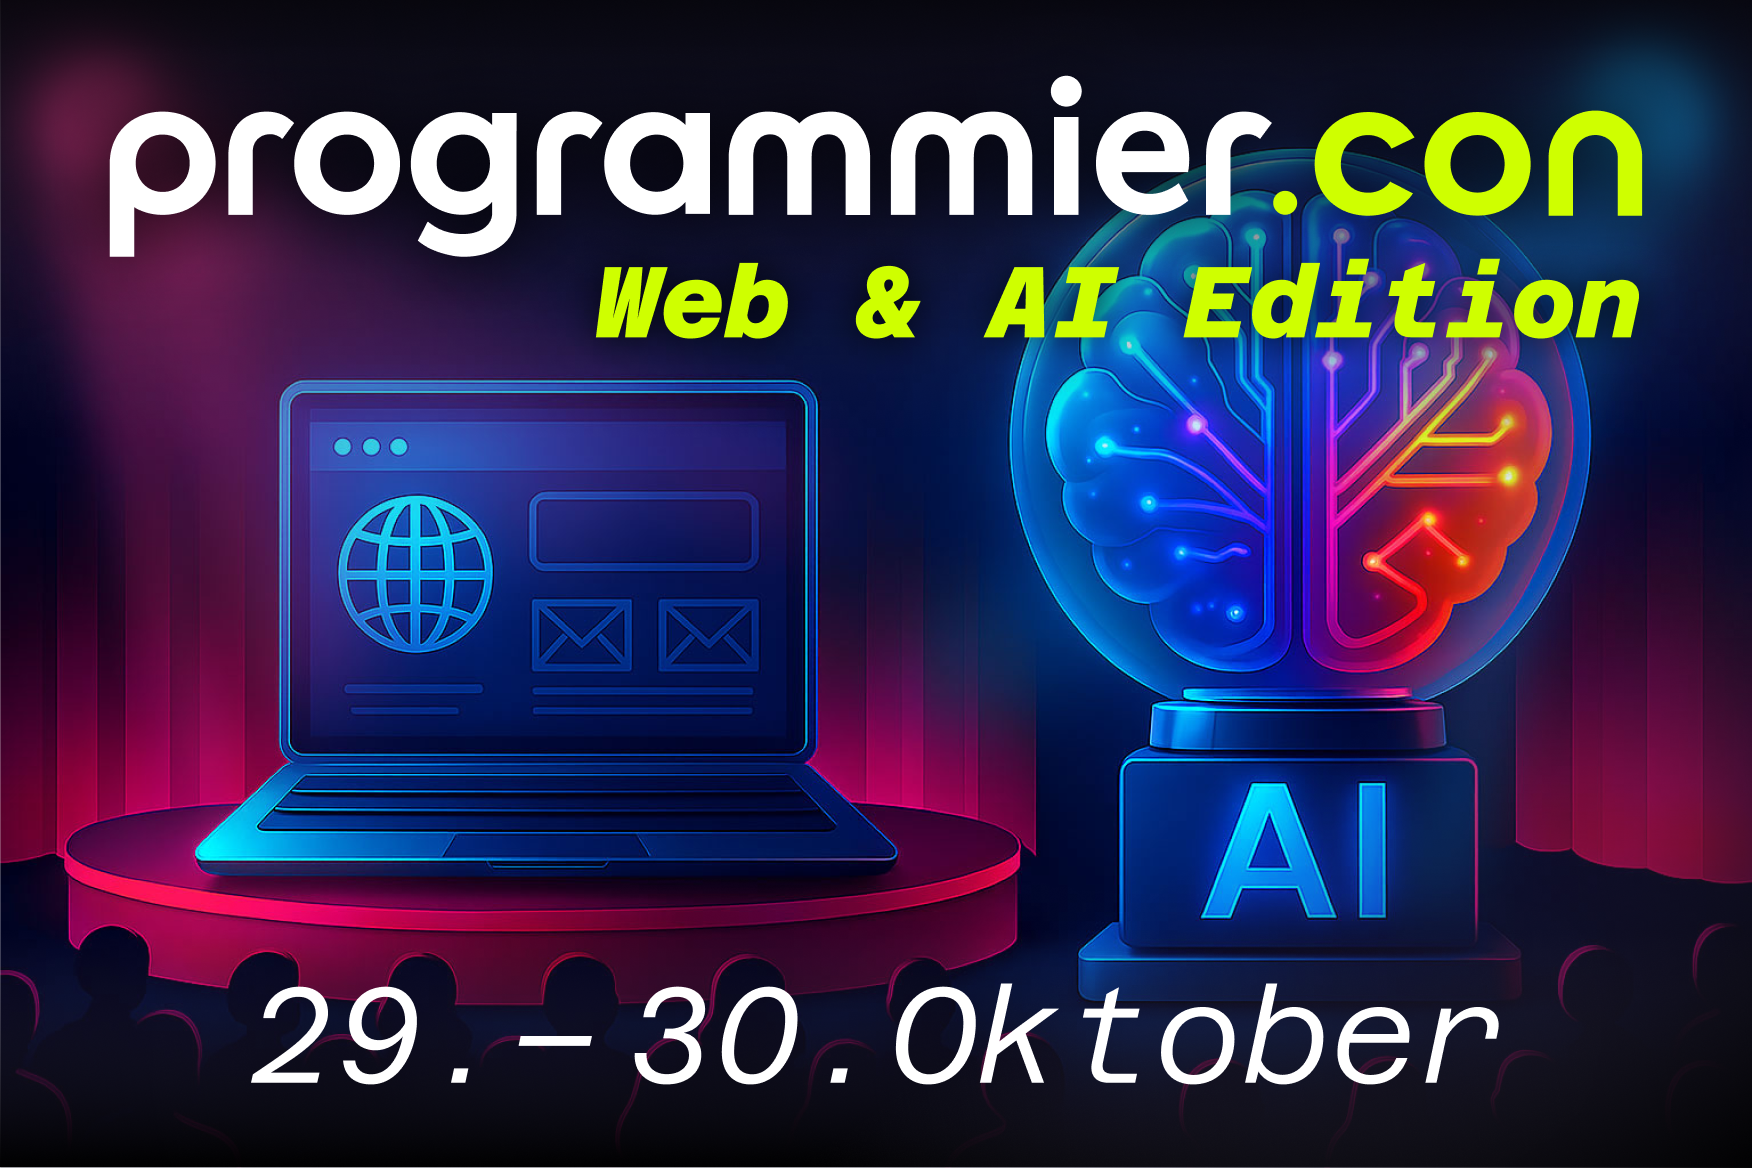
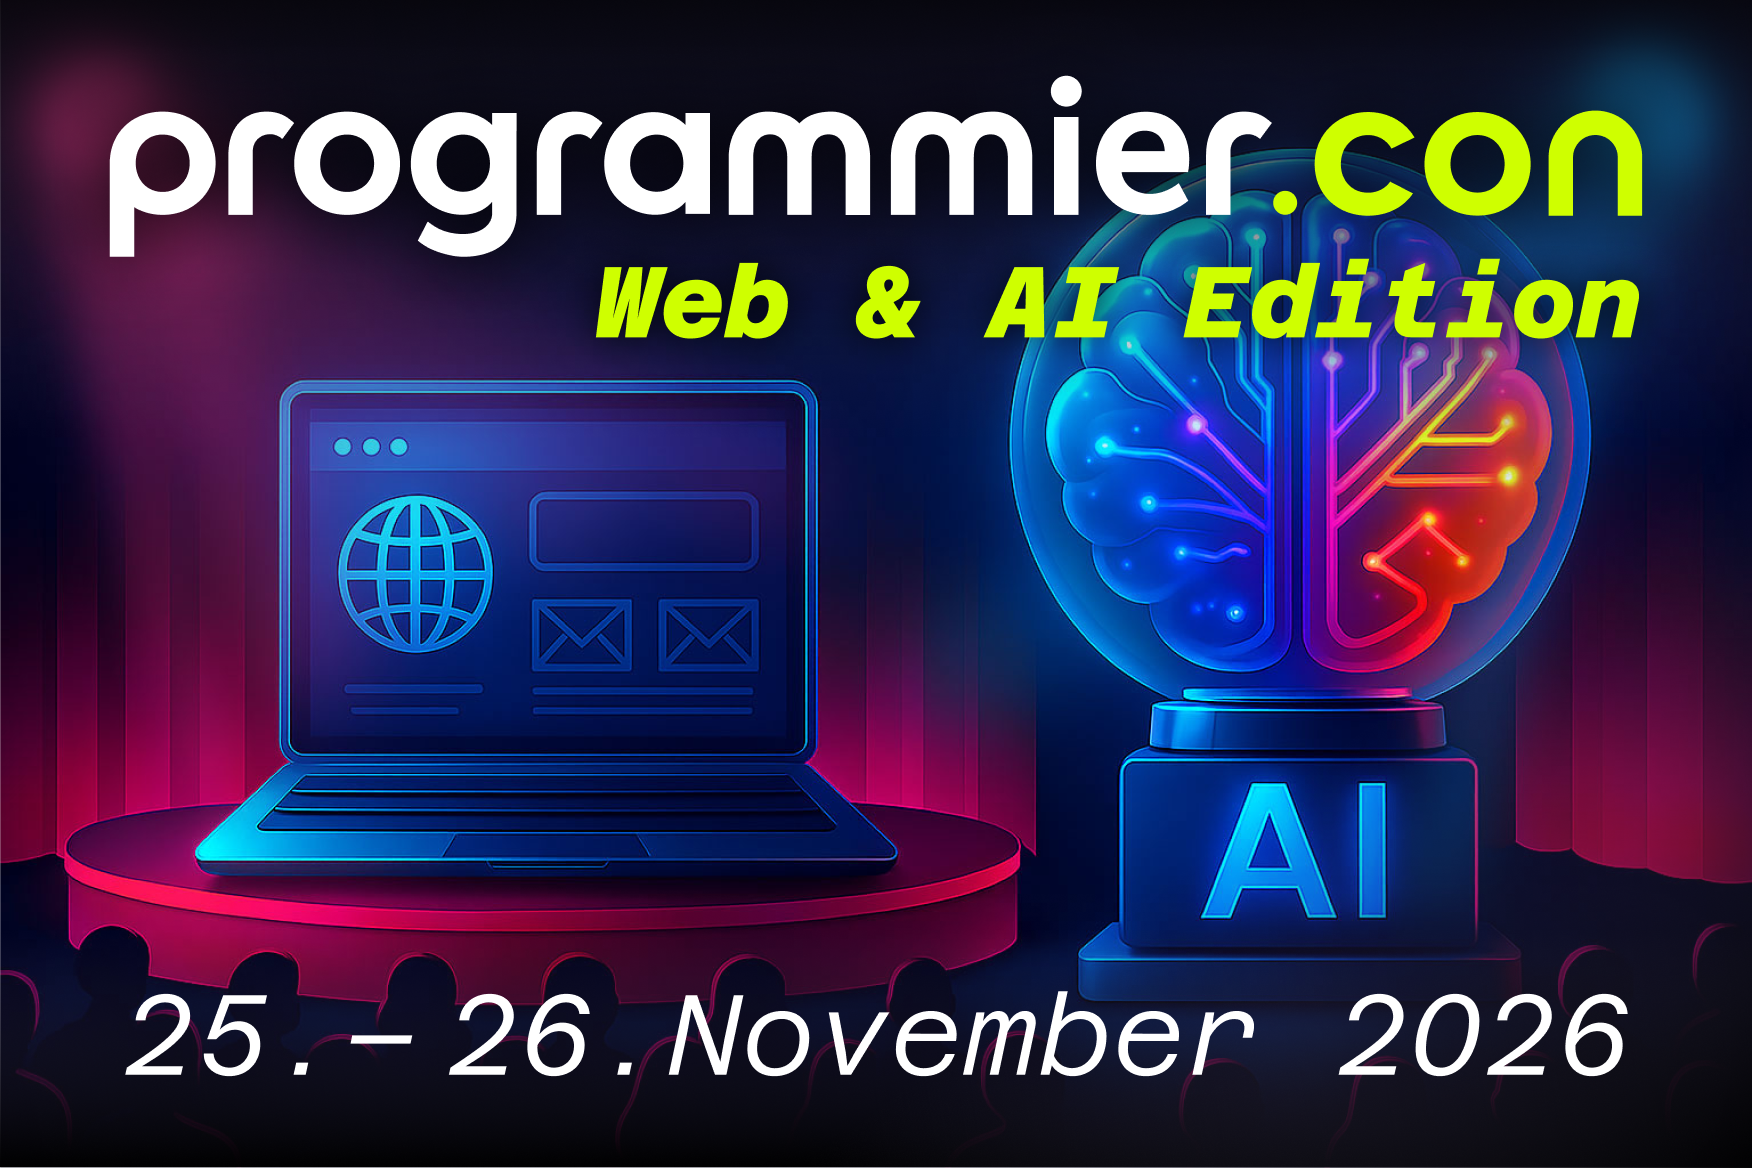
Updated programmier.con to 2026

Changed region(s): [[0.0616, 0.8322, 0.9247, 0.9247]]

diff --git a/slides/pages/programmiercon.md b/slides/pages/programmiercon.md
@@ -2,7 +2,7 @@
 layout: announcement
 
 posterUrl: /assets/programmiercon-poster.png
-disabled: true
+disabled: false
 ---
 
 ::title::
